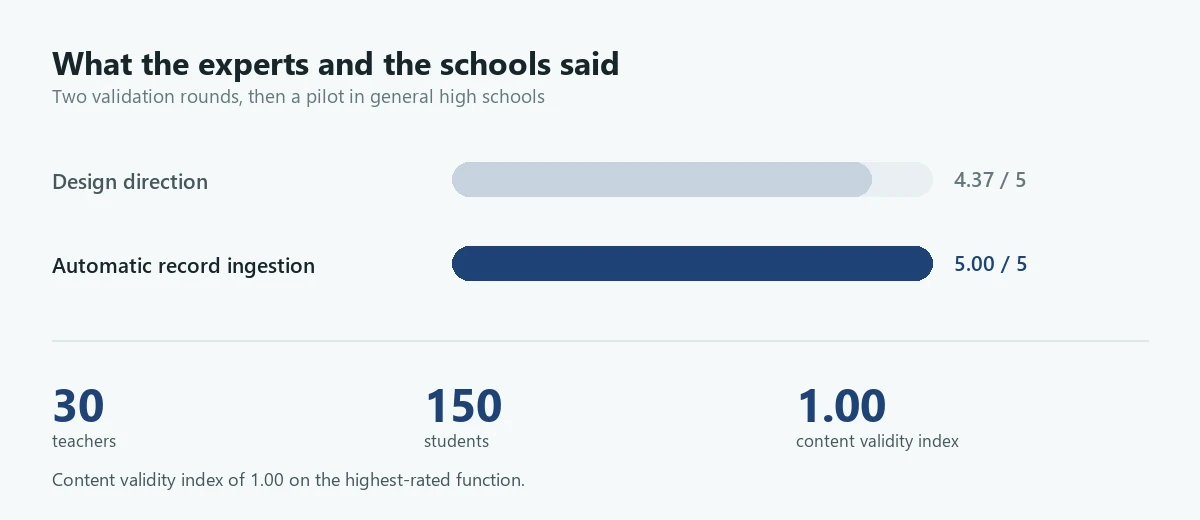
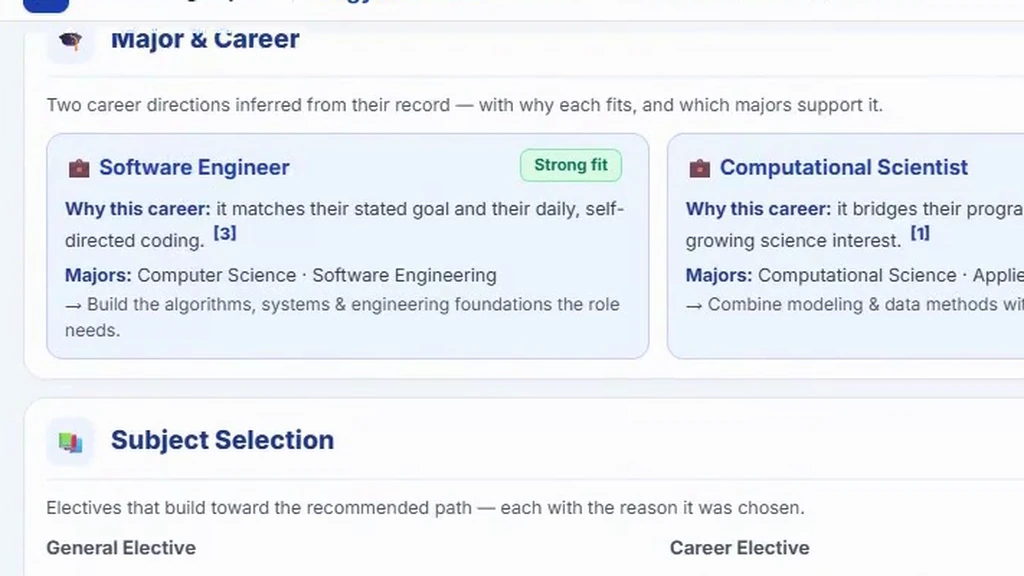
Show the systems themselves, and let the news list be scanned
The project figures were drawn cards - a bar, three numbers - and you could
not tell what a project was by looking at one. Five of the six now show the
system: four are frames from the demo films in this repository, and the
tutoring shot is the paper's Figure 1 with its callouts painted out. The slot
renders about 470px wide, so each crop is tight enough to read at that size.
Instructional design produced a report rather than a system, so it keeps a
drawn frame. The home cards crop to fill now that they hold photographs.

The news headlines were essay titles doing the paragraph's work, fifteen deep.
Each one is now the occasion - CHI 2025 in Yokohama - with a place only where
our own pages establish it, and the award names moved into the entries.

Images: 33.3 MB to 21.9 MB. The news photographs were up to 3.5 MB each and
are the click-through targets, so they are capped at 2000px; two certificate
scans were PNGs, which is what made them large, and are JPEGs now. Twelve
unreferenced files deleted - the Korean kiosk panels the demo never asks for,
and four video covers nothing points at.

diff --git a/news/index.html b/news/index.html
@@ -22,7 +22,7 @@
   <meta name="twitter:card" content="summary_large_image">
   <link rel="preload" href="/assets/fonts/inter-latin.woff2" as="font" type="font/woff2" crossorigin>
   <link rel="preload" href="/assets/fonts/newsreader-latin.woff2" as="font" type="font/woff2" crossorigin>
-  <link rel="stylesheet" href="/assets/site.css?v=edacb7e8">
+  <link rel="stylesheet" href="/assets/site.css?v=9452ece1">
   <link rel="stylesheet" href="/assets/news.css?v=445e9ec4">
   <script data-goatcounter="https://bogyeompark.goatcounter.com/count" async src="https://gc.zgo.at/count.js"></script>
 </head>
@@ -41,59 +41,59 @@
           <h2 class="news-year">2026</h2>
           <article class="news-item" id="ax-academy-2026">
             <div class="news-date"><time datetime="2026-08">Aug 2026</time><span>Teaching</span></div>
-            <div><h3>Tutoring Hyundai Motor Group&rsquo;s 2026 AX Academy big data boot camp</h3><p>Four months mentoring nine participants from across the company, each bringing a data project from their own division &mdash; proposal to finished analysis.</p></div>
+            <div><h3>Hyundai Motor Group AX Academy 2026</h3><p>Four months mentoring nine participants from across the company, each bringing a data project from their own division &mdash; proposal to finished analysis.</p></div>
           </article>
           <article class="news-item news-feature" id="aied-2026">
             <div class="news-date"><time datetime="2026-07-06">Jul 2026</time><span>Talk</span></div>
-            <div class="news-entry"><div class="news-copy"><h3>AIED 2026: closing the &lsquo;cognitive last mile&rsquo; between AI answers and a teacher&rsquo;s decision</h3><p>Oral presentation at the HAI-Agency Workshop: &ldquo;Closing the &lsquo;Cognitive Last Mile&rsquo;: How Agentic AI Empowers Teachers&rsquo; Self-Efficacy in Career Counseling.&rdquo; On the gap between an AI-generated answer and an informed counseling action.</p></div><a class="news-photo-link" href="/assets/news/aied-2026.jpg" target="_blank" rel="noopener" aria-label="Open full photograph from the AIED 2026 workshop"><img src="/assets/news/thumbs/aied-2026.webp" alt="Bogyeom Park presenting agentic AI research at the HAI-Agency workshop at AIED 2026" loading="eager"></a></div>
+            <div class="news-entry"><div class="news-copy"><h3>AIED 2026 in Seoul</h3><p>Oral presentation at the HAI-Agency Workshop: &ldquo;Closing the &lsquo;Cognitive Last Mile&rsquo;: How Agentic AI Empowers Teachers&rsquo; Self-Efficacy in Career Counseling.&rdquo; On the gap between an AI-generated answer and an informed counseling action.</p></div><a class="news-photo-link" href="/assets/news/aied-2026.jpg" target="_blank" rel="noopener" aria-label="Open full photograph from the AIED 2026 workshop"><img src="/assets/news/thumbs/aied-2026.webp" alt="Bogyeom Park presenting agentic AI research at the HAI-Agency workshop at AIED 2026" loading="eager"></a></div>
           </article>
           <article class="news-item news-feature" id="aied-2026-student-volunteer">
             <div class="news-date"><time datetime="2026-07-03">Jul 2026</time><span>Service</span></div>
-            <div class="news-entry"><div class="news-copy"><h3>Student Volunteer at the Festival of Learning 2026</h3><p>Volunteered at the Festival of Learning 2026 in Seoul, which brought the L@S, AIED and EDM communities together from 27 June to 3 July.</p></div><a class="news-photo-link" href="/assets/news/aied-2026-student-volunteer.jpg" target="_blank" rel="noopener" aria-label="Open full photograph of Bogyeom Park at the Festival of Learning 2026"><img src="/assets/news/thumbs/aied-2026-student-volunteer.webp" alt="Bogyeom Park wearing a Student Volunteer badge beside the Festival of Learning sign at AIED 2026 in Seoul" loading="lazy"></a></div>
+            <div class="news-entry"><div class="news-copy"><h3>Festival of Learning 2026 in Seoul</h3><p>Student Volunteer across the week that brought the L@S, AIED and EDM communities together, 27 June to 3 July.</p></div><a class="news-photo-link" href="/assets/news/aied-2026-student-volunteer.jpg" target="_blank" rel="noopener" aria-label="Open full photograph of Bogyeom Park at the Festival of Learning 2026"><img src="/assets/news/thumbs/aied-2026-student-volunteer.webp" alt="Bogyeom Park wearing a Student Volunteer badge beside the Festival of Learning sign at AIED 2026 in Seoul" loading="lazy"></a></div>
           </article>
           <article class="news-item news-feature" id="hci-korea-2026">
             <div class="news-date"><time datetime="2026-01-29">Jan 2026</time><span>Talk</span></div>
-            <div class="news-entry"><div class="news-copy"><h3><a href="/publications/agentic-career-hci2026/">HCI Korea 2026: a career-counseling agent built from what teachers asked for</a></h3><p>Oral presentation: &ldquo;From Teacher Needs to Agentic AI.&rdquo; One of eight projects our lab presented. The system starts from what teachers said they needed, then reasons, gathers what is missing, and supports the guidance.</p></div><a class="news-photo-link" href="/assets/news/hci-korea-2026.jpg" target="_blank" rel="noopener" aria-label="Open full photograph from HCI Korea 2026"><img src="/assets/news/thumbs/hci-korea-2026.webp" alt="Bogyeom Park giving an oral presentation on an agentic AI career counseling system at HCI Korea 2026" loading="lazy"></a></div>
+            <div class="news-entry"><div class="news-copy"><h3><a href="/publications/agentic-career-hci2026/">HCI Korea 2026</a></h3><p>Oral presentation: &ldquo;From Teacher Needs to Agentic AI.&rdquo; One of eight projects our lab presented. The system starts from what teachers said they needed, then reasons, gathers what is missing, and supports the guidance.</p></div><a class="news-photo-link" href="/assets/news/hci-korea-2026.jpg" target="_blank" rel="noopener" aria-label="Open full photograph from HCI Korea 2026"><img src="/assets/news/thumbs/hci-korea-2026.webp" alt="Bogyeom Park giving an oral presentation on an agentic AI career counseling system at HCI Korea 2026" loading="lazy"></a></div>
           </article>
           <h2 class="news-year">2025</h2>
           <article class="news-item news-feature" id="scholarship-2025">
             <div class="news-date"><time datetime="2025-11-19">Nov 2025</time><span class="award">Award</span></div>
-            <div class="news-entry"><div class="news-copy"><h3>Selected for the inaugural AI SeoulTech Graduate Scholarship</h3><p>Doctoral-track recipient of the inaugural award &mdash; KRW 10,000,000 in research support. Six HAI Lab researchers were chosen for the first cohort, three doctoral and three master&rsquo;s.</p></div><a class="news-photo-link" href="/assets/news/ai-seoultech-scholarship-2025.jpg" target="_blank" rel="noopener" aria-label="Open full AI SeoulTech Graduate Scholarship ceremony photograph"><img src="/assets/news/thumbs/ai-seoultech-scholarship-2025.webp" alt="AI SeoulTech Graduate Scholarship recipients at the certificate ceremony" loading="lazy"></a></div>
+            <div class="news-entry"><div class="news-copy"><h3>AI SeoulTech Graduate Scholarship</h3><p>Doctoral-track recipient of the inaugural scholarship &mdash; KRW 10,000,000 in research support. Six HAI Lab researchers were chosen for the first cohort, three doctoral and three master&rsquo;s.</p></div><a class="news-photo-link" href="/assets/news/ai-seoultech-scholarship-2025.jpg" target="_blank" rel="noopener" aria-label="Open full AI SeoulTech Graduate Scholarship ceremony photograph"><img src="/assets/news/thumbs/ai-seoultech-scholarship-2025.webp" alt="AI SeoulTech Graduate Scholarship recipients at the certificate ceremony" loading="lazy"></a></div>
           </article>
           <article class="news-item news-feature" id="chi-2025">
             <div class="news-date"><time datetime="2025-05-07">May 2025</time><span>Poster</span></div>
-            <div class="news-entry"><div class="news-copy"><h3><a href="/publications/debate-chatbot/">Three Late-Breaking Work papers at CHI 2025, including my own on assessing critical thinking</a></h3><p>&ldquo;Assessing Critical Thinking through a Multi-Agent LLM-Based Debate Chatbot,&rdquo; Late-Breaking Work at CHI 2025 in Yokohama (32.7% acceptance; 619/1,888). Separate evaluator agents matched human raters at an intraclass correlation of 0.78, agreeing within one point 97.37% of the time. Co-author on two further CHI 2025 abstracts.</p></div><a class="news-photo-link" href="/assets/news/chi-2025.jpg" target="_blank" rel="noopener" aria-label="Open full photograph from the CHI 2025 poster session"><img src="/assets/news/thumbs/chi-2025.webp" alt="Bogyeom Park discussing the multi-agent debate chatbot poster with an attendee at CHI 2025" loading="lazy"></a></div>
+            <div class="news-entry"><div class="news-copy"><h3><a href="/publications/debate-chatbot/">CHI 2025 in Yokohama</a></h3><p>&ldquo;Assessing Critical Thinking through a Multi-Agent LLM-Based Debate Chatbot,&rdquo; my Late-Breaking Work paper (32.7% acceptance; 619/1,888). Separate evaluator agents matched human raters at an intraclass correlation of 0.78, agreeing within one point 97.37% of the time. Co-author on two further CHI 2025 abstracts.</p></div><a class="news-photo-link" href="/assets/news/chi-2025.jpg" target="_blank" rel="noopener" aria-label="Open full photograph from the CHI 2025 poster session"><img src="/assets/news/thumbs/chi-2025.webp" alt="Bogyeom Park discussing the multi-agent debate chatbot poster with an attendee at CHI 2025" loading="lazy"></a></div>
           </article>
           <article class="news-item news-feature" id="hci-best-paper-2025">
             <div class="news-date"><time datetime="2025-02-12">Feb 2025</time><span class="award">Award</span></div>
-            <div class="news-entry"><div class="news-copy"><h3><a href="/publications/self-disclosure-hci2025/">Best Paper Award at HCI Korea 2025</a></h3><p>&ldquo;The Impact of Self-Disclosing Chatbots for Academic Stress Assessment on Student Self-Reflection,&rdquo; with Minyoung Park and Kyoungwon Seo. Whether a chatbot disclosing something of its own changes how openly students report their stress.</p></div><a class="news-photo-link news-photo-contain" href="/assets/news/hci-korea-best-paper-2025.png" target="_blank" rel="noopener" aria-label="Open full HCI Korea 2025 Best Paper Award certificate"><img src="/assets/news/thumbs/hci-korea-best-paper-2025.webp" alt="HCI Korea 2025 Best Paper Award certificate naming Minyoung Park, Bogyeom Park, and Kyoungwon Seo" loading="lazy"></a></div>
+            <div class="news-entry"><div class="news-copy"><h3><a href="/publications/self-disclosure-hci2025/">HCI Korea 2025</a></h3><p>Best Paper Award for &ldquo;The Impact of Self-Disclosing Chatbots for Academic Stress Assessment on Student Self-Reflection,&rdquo; with Minyoung Park and Kyoungwon Seo. Whether a chatbot disclosing something of its own changes how openly students report their stress.</p></div><a class="news-photo-link news-photo-contain" href="/assets/news/hci-korea-best-paper-2025.jpg" target="_blank" rel="noopener" aria-label="Open full HCI Korea 2025 Best Paper Award certificate"><img src="/assets/news/thumbs/hci-korea-best-paper-2025.webp" alt="HCI Korea 2025 Best Paper Award certificate naming Minyoung Park, Bogyeom Park, and Kyoungwon Seo" loading="lazy"></a></div>
           </article>
           <h2 class="news-year">2024</h2>
           <article class="news-item news-feature" id="ieee-award-2024">
             <div class="news-date"><time datetime="2024-12-07">Dec 2024</time><span class="award">Award</span></div>
-            <div class="news-entry"><div class="news-copy"><h3><a href="/publications/advancing-mci-itc2024/">Best Student Paper Bronze Award, IEEE Seoul Section</a></h3><p>&ldquo;Enhancing Early MCI Detection Through Integrative Approaches,&rdquo; at the 2024 IEEE Seoul Section Student Paper Contest. VR behavior, MRI structure and neuropsychological testing read as complementary evidence rather than competing tests.</p></div><a class="news-photo-link news-photo-contain" href="/assets/news/ieee-seoul-award-2024.jpg" target="_blank" rel="noopener" aria-label="Open full IEEE Seoul Section award certificate"><img src="/assets/news/thumbs/ieee-seoul-award-2024.webp" alt="IEEE Seoul Section Best Student Paper Bronze Award certificate presented to Bogyeom Park" loading="lazy"></a></div>
+            <div class="news-entry"><div class="news-copy"><h3><a href="/publications/advancing-mci-itc2024/">IEEE Seoul Section Student Paper Contest 2024</a></h3><p>Best Student Paper, Bronze Award for &ldquo;Enhancing Early MCI Detection Through Integrative Approaches.&rdquo; VR behavior, MRI structure and neuropsychological testing read as complementary evidence rather than competing tests.</p></div><a class="news-photo-link news-photo-contain" href="/assets/news/ieee-seoul-award-2024.jpg" target="_blank" rel="noopener" aria-label="Open full IEEE Seoul Section award certificate"><img src="/assets/news/thumbs/ieee-seoul-award-2024.webp" alt="IEEE Seoul Section Best Student Paper Bronze Award certificate presented to Bogyeom Park" loading="lazy"></a></div>
           </article>
           <article class="news-item news-feature" id="itc-cscc-2024">
             <div class="news-date"><time datetime="2024-07-15">Jul 2024</time><span>Talk</span></div>
-            <div class="news-entry"><div class="news-copy"><h3><a href="/publications/advancing-mci-itc2024/">ITC-CSCC 2024: reading VR behavior and clinical tests as one picture</a></h3><p>Oral presentation on integrating VR, MRI and neuropsychological insights: technology-mediated behavioral measures and established clinical measures belong in the same reading, not one diagnostic source at a time.</p></div><a class="news-photo-link" href="/assets/news/itc-cscc-2024.jpg" target="_blank" rel="noopener" aria-label="Open full photograph from ITC-CSCC 2024"><img src="/assets/news/thumbs/itc-cscc-2024.webp" alt="Bogyeom Park giving an oral presentation at ITC-CSCC 2024" loading="lazy"></a></div>
+            <div class="news-entry"><div class="news-copy"><h3><a href="/publications/advancing-mci-itc2024/">ITC-CSCC 2024</a></h3><p>Oral presentation on integrating VR, MRI and neuropsychological insights: technology-mediated behavioral measures and established clinical measures belong in the same reading, not one diagnostic source at a time.</p></div><a class="news-photo-link" href="/assets/news/itc-cscc-2024.jpg" target="_blank" rel="noopener" aria-label="Open full photograph from ITC-CSCC 2024"><img src="/assets/news/thumbs/itc-cscc-2024.webp" alt="Bogyeom Park giving an oral presentation at ITC-CSCC 2024" loading="lazy"></a></div>
           </article>
           <article class="news-item news-feature" id="chi-2024">
             <div class="news-date"><time datetime="2024-05-27">May 2024</time><span>Poster</span></div>
-            <div class="news-entry"><div class="news-copy"><h3><a href="/publications/vr-mri-chi/">CHI 2024: VR and MRI biomarkers screen better together than apart</a></h3><p>Late-Breaking Work at CHI 2024 in Honolulu. Behavioral biomarkers from a virtual kiosk task and structural MRI biomarkers carry different evidence, and together they screened more accurately than either alone.</p></div><a class="news-photo-link" href="/assets/news/chi-2024.jpg" target="_blank" rel="noopener" aria-label="Open full photograph from the CHI 2024 poster session"><img src="/assets/news/thumbs/chi-2024.webp" alt="Bogyeom Park standing beside the VR and MRI biomarker research poster at CHI 2024" loading="lazy"></a></div>
+            <div class="news-entry"><div class="news-copy"><h3><a href="/publications/vr-mri-chi/">CHI 2024 in Honolulu</a></h3><p>Late-Breaking Work. Behavioral biomarkers from a virtual kiosk task and structural MRI biomarkers carry different evidence, and together they screened more accurately than either alone.</p></div><a class="news-photo-link" href="/assets/news/chi-2024.jpg" target="_blank" rel="noopener" aria-label="Open full photograph from the CHI 2024 poster session"><img src="/assets/news/thumbs/chi-2024.webp" alt="Bogyeom Park standing beside the VR and MRI biomarker research poster at CHI 2024" loading="lazy"></a></div>
           </article>
-          <article class="news-item" id="jmir-2024"><div class="news-date"><time datetime="2024-04-17">Apr 2024</time><span>Publication</span></div><div><h3><a href="/publications/multimodal-biomarkers-jmir/">Co-first-authored JMIR paper reaches 94.4% accuracy in early MCI detection</a></h3><p>Published in the <em>Journal of Medical Internet Research</em> (JCR Q1, 96th percentile), with me as co-first author alongside Yuwon Kim. Across 54 participants, VR behavioral biomarkers combined with MRI reached 94.4% accuracy and 100% sensitivity.</p></div></article>
+          <article class="news-item" id="jmir-2024"><div class="news-date"><time datetime="2024-04-17">Apr 2024</time><span>Publication</span></div><div><h3><a href="/publications/multimodal-biomarkers-jmir/"><em>Journal of Medical Internet Research</em></a></h3><p>Co-first author alongside Yuwon Kim, in a JCR Q1 journal at the 96th percentile. Across 54 participants, VR behavioral biomarkers combined with MRI reached 94.4% accuracy and 100% sensitivity.</p></div></article>
           <article class="news-item" id="hci-korea-2024">
             <div class="news-date"><time datetime="2024-02">Feb 2024</time><span>Talk</span></div>
-            <div><h3><a href="/publications/heritage-tree-hci2024/">HCI Korea 2024: catching disease in protected trees from ordinary photographs</a></h3><p>&ldquo;Artificial Intelligence-Based Heritage Tree Disease Diagnosis,&rdquo; with Sabin Lee, Daejung Kim and Kyoungwon Seo. Heritage trees are protected by law, but the monitoring that protection assumes is expensive enough that trees are lost every year to disease caught too late.</p></div>
+            <div><h3><a href="/publications/heritage-tree-hci2024/">HCI Korea 2024</a></h3><p>&ldquo;Artificial Intelligence-Based Heritage Tree Disease Diagnosis,&rdquo; with Sabin Lee, Daejung Kim and Kyoungwon Seo. Heritage trees are protected by law, but the monitoring that protection assumes is expensive enough that trees are lost every year to disease caught too late.</p></div>
           </article>
           <article class="news-item" id="iceic-2024">
             <div class="news-date"><time datetime="2024-01">Jan 2024</time><span>Talk</span></div>
-            <div><h3><a href="/publications/veem-iceic2024/">ICEIC 2024: four ways of looking for early cognitive impairment, read together</a></h3><p>&ldquo;Early Screening of Mild Cognitive Impairment Using Multimodal Digital Biomarkers,&rdquo; with Se Young Kim and colleagues. A virtual task shows behavior, evoked potentials and EEG show electrical response, MRI shows structure &mdash; and each sees something the others miss.</p></div>
+            <div><h3><a href="/publications/veem-iceic2024/">ICEIC 2024</a></h3><p>&ldquo;Early Screening of Mild Cognitive Impairment Using Multimodal Digital Biomarkers,&rdquo; with Se Young Kim and colleagues. A virtual task shows behavior, evoked potentials and EEG show electrical response, MRI shows structure &mdash; and each sees something the others miss.</p></div>
           </article>
           <h2 class="news-year">2023</h2>
           <article class="news-item news-feature" id="hci-korea-2023">
             <div class="news-date"><time datetime="2023-02">Feb 2023</time><span>Talk</span></div>
-            <div class="news-entry"><div class="news-copy"><h3><a href="/publications/counterfactual-prefactual-hci2023/">HCI Korea 2023: two ways of narrating a health result, and why both help</a></h3><p>&ldquo;Counterfactual vs. Prefactual,&rdquo; my first first-authored paper, presented under my former name, Hyobin Park. An MRI report says what was found, not what to do about it &mdash; looking backwards and looking forwards both made the result actionable, by different mechanisms.</p></div><a class="news-photo-link" href="/assets/news/hci-korea-2023.png" target="_blank" rel="noopener" aria-label="Open full photograph from HCI Korea 2023"><img src="/assets/news/thumbs/hci-korea-2023.webp" alt="Hyobin Park presenting Counterfactual vs. Prefactual at HCI Korea 2023" loading="lazy"></a></div>
+            <div class="news-entry"><div class="news-copy"><h3><a href="/publications/counterfactual-prefactual-hci2023/">HCI Korea 2023</a></h3><p>&ldquo;Counterfactual vs. Prefactual,&rdquo; my first first-authored paper, presented under my former name, Hyobin Park. An MRI report says what was found, not what to do about it &mdash; looking backwards and looking forwards both made the result actionable, by different mechanisms.</p></div><a class="news-photo-link" href="/assets/news/hci-korea-2023.jpg" target="_blank" rel="noopener" aria-label="Open full photograph from HCI Korea 2023"><img src="/assets/news/thumbs/hci-korea-2023.webp" alt="Hyobin Park presenting Counterfactual vs. Prefactual at HCI Korea 2023" loading="lazy"></a></div>
           </article>
           <h2 class="news-year">2021</h2>
           <article class="news-item" id="joined-hai-lab">

diff --git a/projects/index.html b/projects/index.html
@@ -22,7 +22,7 @@
   <meta name="twitter:card" content="summary_large_image">
   <link rel="preload" href="/assets/fonts/inter-latin.woff2" as="font" type="font/woff2" crossorigin>
   <link rel="preload" href="/assets/fonts/newsreader-latin.woff2" as="font" type="font/woff2" crossorigin>
-  <link rel="stylesheet" href="/assets/site.css?v=edacb7e8">
+  <link rel="stylesheet" href="/assets/site.css?v=9452ece1">
   <script data-goatcounter="https://bogyeompark.goatcounter.com/count" async src="https://gc.zgo.at/count.js"></script>
 </head>
 <body>
@@ -54,7 +54,7 @@
               <p class="project-did"><span>What I did</span>Designed the evaluation framework, wrote the utterance-level ICAP coding manual and built the classifier for it, ran the sessions with school and first-year university students, and built the analytics dashboard.</p>
               <p class="results"><span>What came out</span>Coded dialogue corpus &middot; Research dashboard &middot; Journal manuscript in preparation</p>
             </div>
-            <img class="project-figure" src="/assets/projects/ai-tutoring-cluney/figure.webp" width="1200" height="520" loading="lazy" alt="The four ICAP levels the study codes each utterance against: passive, active, constructive, interactive">
+            <img class="project-figure" src="/assets/projects/ai-tutoring-cluney/figure.webp" width="1024" height="576" loading="lazy" alt="The tutoring system's problem view: a confidence-interval question with the student's handwritten solution uploaded beside it">
           </div>
         </article>
         </div>
@@ -73,7 +73,7 @@
               <p class="project-did"><span>What I did</span>Ran the teacher focus groups, designed the multi-agent workflow, ran two rounds of expert validation and the Delphi study, and piloted the system with 30 teachers and 150 students. Experts rated the design direction 4.37&nbsp;/&nbsp;5 and automatic record ingestion 5.00&nbsp;/&nbsp;5.</p>
               <p class="results"><span>What came out</span>KERIS Report RR 2025-3 &middot; <a href="/demos/career-agent/">Working prototype</a> &middot; Invention disclosure &middot; <a href="/publications/agentic-career-hci2026/">HCI Korea 2026, first author</a></p>
             </div>
-            <img class="project-figure" src="/assets/projects/agentic-career-keris/figure.webp" width="1200" height="520" loading="lazy" alt="The counseling report the system generates, with a tooltip showing the record line one of its claims came from">
+            <img class="project-figure" src="/assets/projects/agentic-career-keris/figure.webp" width="1024" height="576" loading="lazy" alt="The counseling report's Major and Career section, showing two career directions inferred from the student's record and the reason for each">
           </div>
         </article>
         <article class="project" id="ai-copilot">
@@ -86,7 +86,7 @@
               <p class="project-did"><span>What I did</span>Designed and evaluated a multi-agent LLM debate chatbot that draws out a student&rsquo;s argument and scores critical thinking from the exchange &mdash; its evaluator agents matched human raters at an intraclass correlation of 0.78 &mdash; and co-developed a self-determination-theory career counseling chatbot.</p>
               <p class="results"><span>What came out</span><a href="/publications/debate-chatbot/">CHI EA 2025, first author</a> &middot; <a href="/publications/sdt-career-chatbot/">CHI EA 2025, co-author</a> &middot; <a href="/publications/self-disclosure-hci2025/">HCI Korea 2025, Best Paper Award</a></p>
             </div>
-            <img class="project-figure" src="/assets/projects/ai-copilot-iitp/figure.webp" width="1200" height="520" loading="lazy" alt="The multi-agent debate chatbot: one agent argues, separate agents score the exchange against an evaluation framework">
+            <img class="project-figure" src="/assets/projects/ai-copilot-iitp/figure.webp" width="1024" height="576" loading="lazy" alt="The self-disclosing condition of the stress-assessment chatbot, naming its own exam-week sleep trouble before asking the student about theirs">
           </div>
         </article>
         <article class="project" id="instructional-design">
@@ -99,7 +99,7 @@
               <p class="project-did"><span>What I did</span>Authored the final report, designed the system prompts, and drafted the interface.</p>
               <p class="results"><span>What came out</span>Project final report &middot; Practitioner guide</p>
             </div>
-            <img class="project-figure" src="/assets/projects/instructional-design-keris/figure.webp" width="1200" height="520" loading="lazy" alt="The loop the agent sits in: the teacher states the intent, the agent drafts, the teacher revises and decides">
+            <img class="project-figure" src="/assets/projects/instructional-design-keris/figure.webp" width="1024" height="576" loading="lazy" alt="The loop the agent sits in: the teacher states the intent, the agent drafts, the teacher revises and decides">
           </div>
         </article>
         </div>
@@ -118,7 +118,7 @@
               <p class="project-did"><span>What I did</span>Ran the VR data collection at the hospital myself, with patients rather than a convenience sample, and analyzed the VEEM multimodal data it produced &mdash; including the VR&ndash;MRI&ndash;SNSB cohort of 54.</p>
               <p class="results"><span>What came out</span>VEEM multimodal dataset, N&nbsp;=&nbsp;54 &middot; Patent, filed 2023 &middot; <a href="/publications/">Four papers drawn from it</a></p>
             </div>
-            <img class="project-figure" src="/assets/projects/veem-brl/figure.webp" width="1200" height="520" loading="lazy" alt="The four modalities the laboratory combined: VR interaction data, evoked potentials, EEG, and MRI">
+            <img class="project-figure" src="/assets/projects/veem-brl/figure.webp" width="1024" height="576" loading="lazy" alt="Hand paths recorded through the first three kiosk steps, healthy controls above and participants with mild cognitive impairment below">
           </div>
         </article>
         <article class="project" id="vr-dementia">
@@ -131,7 +131,7 @@
               <p class="project-did"><span>What I did</span>Built the virtual kiosk task in Unity &mdash; the six-step meal order the whole study rests on &mdash; then led the multimodal model, deriving hand-movement and gaze features from it and reading them together with MRI to separate 22 controls from 32 patients at 94.4% accuracy.</p>
               <p class="results"><span>What came out</span><a href="/demos/kiosk/">Virtual kiosk task in Unity</a> &middot; <a href="/publications/multimodal-biomarkers-jmir/">JMIR 2024, first author</a> &middot; <a href="/publications/vr-mri-chi/">CHI EA 2024</a> &middot; <a href="/publications/">Two IEEE papers</a></p>
             </div>
-            <img class="project-figure" src="/assets/projects/vr-dementia-biomarker/figure.webp" width="1200" height="520" loading="lazy" alt="Two of the virtual daily-living tasks: withdrawing money from an ATM, and taking a bus">
+            <img class="project-figure" src="/assets/projects/vr-dementia-biomarker/figure.webp" width="1024" height="576" loading="lazy" alt="A participant seated in the virtual kiosk task, with the head-mounted display, hand controller and base station labeled">
           </div>
         </article>
         </div>

diff --git a/index.html b/index.html
@@ -22,7 +22,7 @@
   <meta name="twitter:card" content="summary_large_image">
   <link rel="preload" href="/assets/fonts/inter-latin.woff2" as="font" type="font/woff2" crossorigin>
   <link rel="preload" href="/assets/fonts/newsreader-latin.woff2" as="font" type="font/woff2" crossorigin>
-  <link rel="stylesheet" href="/assets/site.css?v=edacb7e8">
+  <link rel="stylesheet" href="/assets/site.css?v=9452ece1">
   <link rel="stylesheet" href="/assets/demos/watch.css?v=a7e0fa1c">
   <script src="/assets/site.js?v=b06142de" defer></script>
   <script type="application/ld+json">{"@context":"https://schema.org","@type":"Person","name":"Bogyeom Park","alternateName":["박보겸","Hyobin Park"],"jobTitle":"Ph.D. Student","identifier":{"@type":"PropertyValue","propertyID":"ORCID","value":"0009-0005-3046-9621"},"affiliation":{"@type":"Organization","name":"Seoul National University of Science and Technology","department":"Human-centered Artificial Intelligence Lab"},"worksFor":{"@type":"Organization","name":"Seoul National University of Science and Technology"},"url":"https://bogyeompark.github.io/","image":"https://bogyeompark.github.io/assets/og-card.jpg","email":"mailto:bogyeom@seoultech.ac.kr","sameAs":["https://scholar.google.com/citations?user=HusX3nUAAAAJ&hl=en","https://orcid.org/0009-0005-3046-9621","https://github.com/BogyeomPark"],"knowsAbout":["Agentic AI","Human-AI Interaction","AI in Education","Learning Analytics","Accessibility"]}</script>
@@ -108,17 +108,17 @@
         <div class="section-heading"><h2>Projects</h2><a href="/projects/">All projects &rarr;</a></div>
         <div class="work-grid">
           <a class="work" href="/projects/#ai-tutoring">
-            <img src="/assets/projects/ai-tutoring-cluney/thumb.webp" width="900" height="300" loading="lazy" decoding="async" alt="Four ICAP levels: passive, active, constructive, interactive">
+            <img src="/assets/projects/ai-tutoring-cluney/thumb.webp" width="900" height="500" loading="lazy" decoding="async" alt="The tutoring system's problem view with a student's handwritten solution">
             <span class="work-venue">Tutorus Labs &middot; 2026</span>
             <h3>Usability Evaluation of a Compound AI Tutoring System</h3>
           </a>
           <a class="work" href="/projects/#agentic-career">
-            <img src="/assets/projects/agentic-career-keris/thumb.webp" width="900" height="300" loading="lazy" decoding="async" alt="Expert rating of 5.00 out of 5 for automatic record ingestion">
+            <img src="/assets/projects/agentic-career-keris/thumb.webp" width="900" height="500" loading="lazy" decoding="async" alt="Two career directions inferred from a student's school record">
             <span class="work-venue">KERIS &middot; 2025</span>
             <h3>Agentic AI for Personalized Career, Admission, and Counseling Support</h3>
           </a>
           <a class="work" href="/projects/#vr-dementia">
-            <img src="/assets/projects/vr-dementia-biomarker/thumb.webp" width="900" height="300" loading="lazy" decoding="async" alt="94.4% classification accuracy, 22 healthy controls and 32 patients">
+            <img src="/assets/projects/vr-dementia-biomarker/thumb.webp" width="900" height="500" loading="lazy" decoding="async" alt="A participant seated in the virtual kiosk task wearing a head-mounted display">
             <span class="work-venue">Ministry of Science and ICT &middot; 2021&ndash;2024</span>
             <h3>Digital Biomarkers for Early Dementia Diagnosis from VR Daily-Living Data</h3>
           </a>

diff --git a/404.html b/404.html
@@ -21,7 +21,7 @@
   <meta name="twitter:card" content="summary_large_image">
   <link rel="preload" href="/assets/fonts/inter-latin.woff2" as="font" type="font/woff2" crossorigin>
   <link rel="preload" href="/assets/fonts/newsreader-latin.woff2" as="font" type="font/woff2" crossorigin>
-  <link rel="stylesheet" href="/assets/site.css?v=edacb7e8">
+  <link rel="stylesheet" href="/assets/site.css?v=9452ece1">
   <script data-goatcounter="https://bogyeompark.goatcounter.com/count" async src="https://gc.zgo.at/count.js"></script>
 </head>
 <body><main style="max-width:720px;margin:0 auto;padding:80px 24px"><p class="eyebrow">404</p><div class="page-header"><h1>Page not found.</h1><p class="lead">The page may have moved as this website was reorganized.</p></div><div class="button-row"><a class="button" href="/">Return home</a><a class="button secondary" href="/publications/">All publications &rarr;</a></div></main></body>

diff --git a/publications/multimodal-biomarkers-jmir/index.html b/publications/multimodal-biomarkers-jmir/index.html
@@ -36,7 +36,7 @@
   <meta name="citation_pdf_url" content="https://bogyeompark.github.io/assets/publications/multimodal-biomarkers-jmir/paper.pdf">
   <link rel="preload" href="/assets/fonts/inter-latin.woff2" as="font" type="font/woff2" crossorigin>
   <link rel="preload" href="/assets/fonts/newsreader-latin.woff2" as="font" type="font/woff2" crossorigin>
-  <link rel="stylesheet" href="/assets/site.css?v=edacb7e8">
+  <link rel="stylesheet" href="/assets/site.css?v=9452ece1">
   <script src="/assets/site.js?v=b06142de" defer></script>
   <script data-goatcounter="https://bogyeompark.goatcounter.com/count" async src="https://gc.zgo.at/count.js"></script>
 </head>

diff --git a/publications/self-disclosure-chatbot/index.html b/publications/self-disclosure-chatbot/index.html
@@ -32,7 +32,7 @@
   <meta name="citation_pdf_url" content="https://bogyeompark.github.io/assets/publications/self-disclosure-chatbot/paper.pdf">
   <link rel="preload" href="/assets/fonts/inter-latin.woff2" as="font" type="font/woff2" crossorigin>
   <link rel="preload" href="/assets/fonts/newsreader-latin.woff2" as="font" type="font/woff2" crossorigin>
-  <link rel="stylesheet" href="/assets/site.css?v=edacb7e8">
+  <link rel="stylesheet" href="/assets/site.css?v=9452ece1">
   <script src="/assets/site.js?v=b06142de" defer></script>
   <script data-goatcounter="https://bogyeompark.goatcounter.com/count" async src="https://gc.zgo.at/count.js"></script>
 </head>

diff --git a/publications/sdt-career-chatbot/index.html b/publications/sdt-career-chatbot/index.html
@@ -32,7 +32,7 @@
   <meta name="citation_pdf_url" content="https://bogyeompark.github.io/assets/publications/sdt-career-chatbot/paper.pdf">
   <link rel="preload" href="/assets/fonts/inter-latin.woff2" as="font" type="font/woff2" crossorigin>
   <link rel="preload" href="/assets/fonts/newsreader-latin.woff2" as="font" type="font/woff2" crossorigin>
-  <link rel="stylesheet" href="/assets/site.css?v=edacb7e8">
+  <link rel="stylesheet" href="/assets/site.css?v=9452ece1">
   <script src="/assets/site.js?v=b06142de" defer></script>
   <script data-goatcounter="https://bogyeompark.goatcounter.com/count" async src="https://gc.zgo.at/count.js"></script>
 </head>

diff --git a/publications/debate-chatbot/index.html b/publications/debate-chatbot/index.html
@@ -31,7 +31,7 @@
   <meta name="citation_pdf_url" content="https://bogyeompark.github.io/assets/publications/debate-chatbot/paper.pdf">
   <link rel="preload" href="/assets/fonts/inter-latin.woff2" as="font" type="font/woff2" crossorigin>
   <link rel="preload" href="/assets/fonts/newsreader-latin.woff2" as="font" type="font/woff2" crossorigin>
-  <link rel="stylesheet" href="/assets/site.css?v=edacb7e8">
+  <link rel="stylesheet" href="/assets/site.css?v=9452ece1">
   <script src="/assets/site.js?v=b06142de" defer></script>
   <script data-goatcounter="https://bogyeompark.goatcounter.com/count" async src="https://gc.zgo.at/count.js"></script>
 </head>

diff --git a/publications/vr-mri-chi/index.html b/publications/vr-mri-chi/index.html
@@ -34,7 +34,7 @@
   <meta name="citation_pdf_url" content="https://bogyeompark.github.io/assets/publications/vr-mri-chi/paper.pdf">
   <link rel="preload" href="/assets/fonts/inter-latin.woff2" as="font" type="font/woff2" crossorigin>
   <link rel="preload" href="/assets/fonts/newsreader-latin.woff2" as="font" type="font/woff2" crossorigin>
-  <link rel="stylesheet" href="/assets/site.css?v=edacb7e8">
+  <link rel="stylesheet" href="/assets/site.css?v=9452ece1">
   <script src="/assets/site.js?v=b06142de" defer></script>
   <script data-goatcounter="https://bogyeompark.goatcounter.com/count" async src="https://gc.zgo.at/count.js"></script>
 </head>

diff --git a/demos/self-disclosure/index.html b/demos/self-disclosure/index.html
@@ -22,7 +22,7 @@
   <meta name="twitter:card" content="summary_large_image">
   <link rel="preload" href="/assets/fonts/inter-latin.woff2" as="font" type="font/woff2" crossorigin>
   <link rel="preload" href="/assets/fonts/newsreader-latin.woff2" as="font" type="font/woff2" crossorigin>
-  <link rel="stylesheet" href="/assets/site.css?v=edacb7e8">
+  <link rel="stylesheet" href="/assets/site.css?v=9452ece1">
   <link rel="stylesheet" href="/assets/demos/self-disclosure.css?v=c752386e">
   <link rel="stylesheet" href="/assets/demos/watch.css?v=a7e0fa1c">
   <script src="/assets/demos/self-disclosure.js?v=f2ed0cef" defer></script>

diff --git a/publications/counterfactual-prefactual-hci2023/index.html b/publications/counterfactual-prefactual-hci2023/index.html
@@ -30,7 +30,7 @@
   <meta name="citation_pdf_url" content="https://bogyeompark.github.io/assets/publications/counterfactual-prefactual-hci2023/paper.pdf">
   <link rel="preload" href="/assets/fonts/inter-latin.woff2" as="font" type="font/woff2" crossorigin>
   <link rel="preload" href="/assets/fonts/newsreader-latin.woff2" as="font" type="font/woff2" crossorigin>
-  <link rel="stylesheet" href="/assets/site.css?v=edacb7e8">
+  <link rel="stylesheet" href="/assets/site.css?v=9452ece1">
   <script data-goatcounter="https://bogyeompark.goatcounter.com/count" async src="https://gc.zgo.at/count.js"></script>
 </head>
 <body>

diff --git a/demos/kiosk/index.html b/demos/kiosk/index.html
@@ -22,7 +22,7 @@
   <meta name="twitter:card" content="summary_large_image">
   <link rel="preload" href="/assets/fonts/inter-latin.woff2" as="font" type="font/woff2" crossorigin>
   <link rel="preload" href="/assets/fonts/newsreader-latin.woff2" as="font" type="font/woff2" crossorigin>
-  <link rel="stylesheet" href="/assets/site.css?v=edacb7e8">
+  <link rel="stylesheet" href="/assets/site.css?v=9452ece1">
   <link rel="stylesheet" href="/assets/demos/kiosk.css?v=b1335649">
   <link rel="stylesheet" href="/assets/demos/watch.css?v=a7e0fa1c">
   <script src="/assets/demos/kiosk-en.js?v=f4904a53" defer></script>
